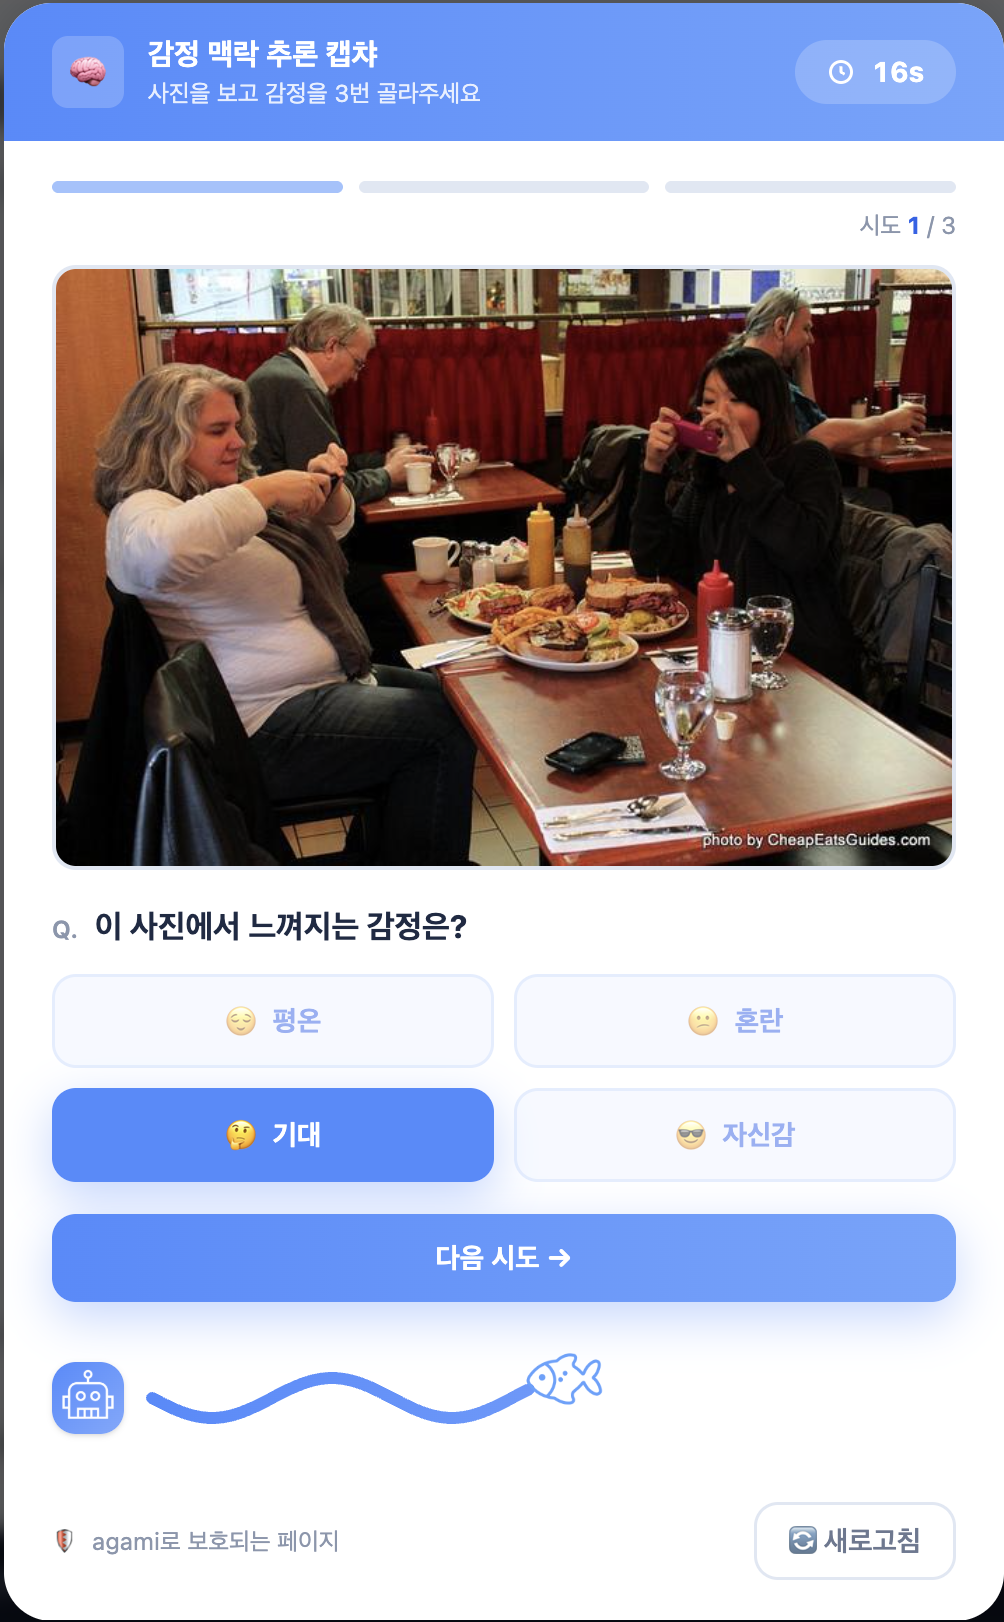
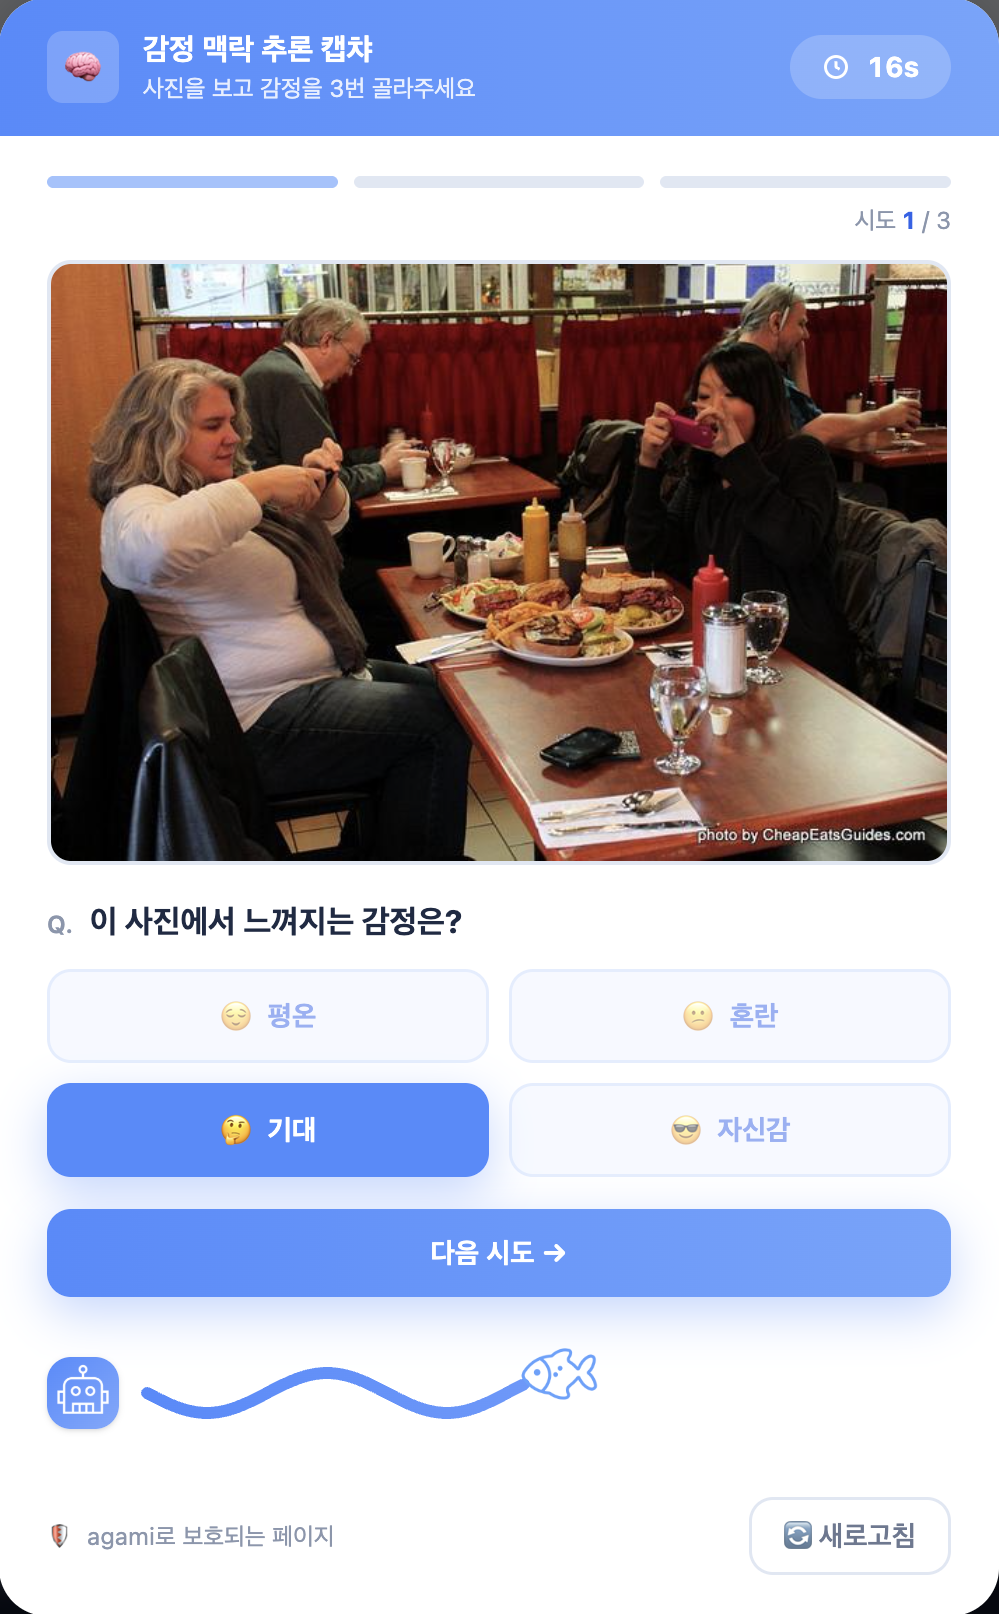
이미지 수정

diff --git a/Develop/Frontend/src/pages/Intro/Intro.css b/Develop/Frontend/src/pages/Intro/Intro.css
@@ -194,7 +194,7 @@ body.dark-mode .content-desc {
   width: 100%;
   height: 400px;
   background: #ffffff;
-  border-radius: 16px;
+  border-radius: 30px;
   display: flex;
   align-items: center;
   justify-content: center;